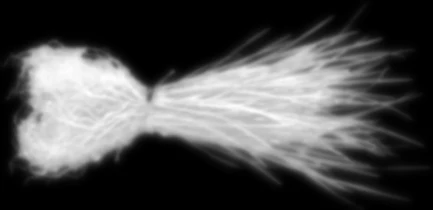
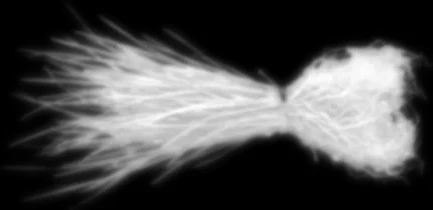
Omeya Dew phone: lying-down plants flipped so stems run off the right edge, tags in one column at the right edge

diff --git a/index.html b/index.html
@@ -469,13 +469,15 @@ function drawTilesPhone(t,time,R,line,d){
     var h=Math.round(rh*(kind.rest?1.3:1.5)), w=Math.round(h*asp), maxW=colR-colL+12; if(w>maxW){ w=Math.round(maxW); h=Math.round(w/asp); }
     var key2=w+"x"+h+(n===tl.nw?"w":"");
     if(tl.w!==key2){ tl.w=key2; tl.cv.style.width=w+"px"; tl.cv.style.height=h+"px"; tl.cv.width=Math.round(w*d); tl.cv.height=Math.round(h*d); }
-    var right=colR-[0,16,6][k%3], bottom=y0+rh*(k+1)+4;
+    // stems point right and run off the edge of the panel (TJ, 15 Nov); the flowers face in. Resting pieces stay inside.
+    var right=kind.rest?colR-[0,16,6][k%3]:colR+w*0.22-[0,16,6][k%3], bottom=y0+rh*(k+1)+4;
     tl.el.style.left=(right-w)+"px"; tl.el.style.bottom=Math.max(0,line-bottom)+"px"; tl.el.style.zIndex=20-k;
     var r=ease(rng(t,0.50+k*0.025,0.74+k*0.025));                  // each one slides in from the right edge in turn
     tl.el.style.clipPath="inset(-40% -20% -20% "+((1-r)*160-60).toFixed(1)+"%)"; tl.el.style.transform="translateX("+((1-r)*20).toFixed(1)+"px)";
     tl.el.style.pointerEvents=t>0.9?"auto":"none";
-    // tag rests on the stem at the left edge of the notes column, never in the text column
-    tl.tg.style.transform="translate(0,-50%)"; tl.tg.style.left=Math.max(0,colL+2-(right-w))+"px"; tl.tg.style.top=(h*0.62)+"px";
+    // tag: plants carry it on the stem near the right edge of the panel; resting pieces carry it at their top left corner.
+    // Never in the text column.
+    tl.tg.style.transform="translate(-100%,-50%)"; tl.tg.style.left=(R.x+R.w-6-(right-w))+"px"; tl.tg.style.top=(h*(kind.rest?0.62:0.55))+"px";   // one neat column of tags down the right edge
     var tv=ease(rng(t,0.80+k*0.01,0.95+k*0.01)); tl.tg.style.opacity=tv; tl.hl.style.opacity=0; tl.hd.style.opacity=0;
     var c2=tl.cv.getContext("2d"); c2.clearRect(0,0,tl.cv.width,tl.cv.height);
     c2.drawImage(NG(n,tl.cv.width,tl.cv.height,time,RM?0:tx*2,RM?0:ty*2,k*1.7,kind.rest?0:0.35),0,0);
